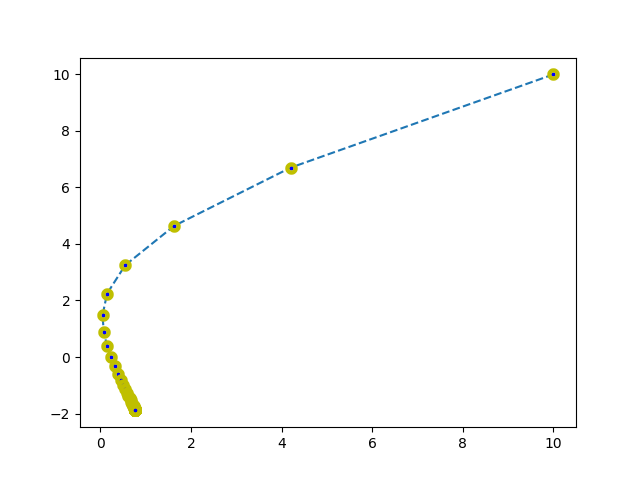
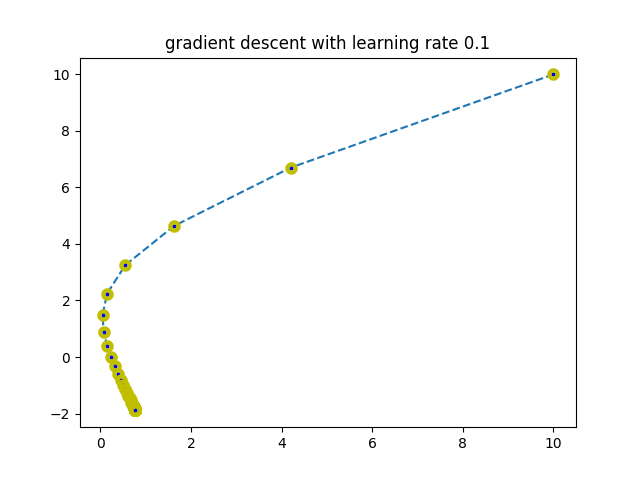
check5

Changed region(s): [[0.25, 0.0625, 0.75, 0.125]]

diff --git a/main.py b/main.py
@@ -20,14 +20,14 @@ x = np.array([[10], [10]])
 alpha = 0.002
 
 alpha = 0.1
-#alpha = 0.3771609692315777 - 0.00002
+alpha = 0.3771609692315777 - 0.00002
 
 no_of_pts = 10
 
 if __name__ == "__main__":
-    #final_x, cost, x_star, store_x= gd(Q, b, c, x, alpha, verbose=3)
+    final_x, cost, x_star, store_x= gd(Q, b, c, x, alpha, verbose=3)
     #final_x, cost, x_star, store_x= sd(Q, b, c, x, verbose=3)
-    final_x, cost, x_star, store_x= sd_with_newtons_method(Q, b, c, x, verbose=3)
+    #final_x, cost, x_star, store_x= sd_with_newtons_method(Q, b, c, x, verbose=3)
 
 
     # Draws 3D plot of descent

diff --git a/gradient_descent.py b/gradient_descent.py
@@ -60,6 +60,7 @@ def gd(Q,b,c, x,alpha, verbose=0):
             x.append(i[0,0])
             y.append(i[1,0])
         plt.plot(x,y, marker="o",ls="--",markersize=3,markeredgewidth=6, markeredgecolor="y", markerfacecolor="b")
+        plt.title('gradient descent with learning rate 0.3771609692315777 - 0.00002')
         plt.show()
         print()
 
